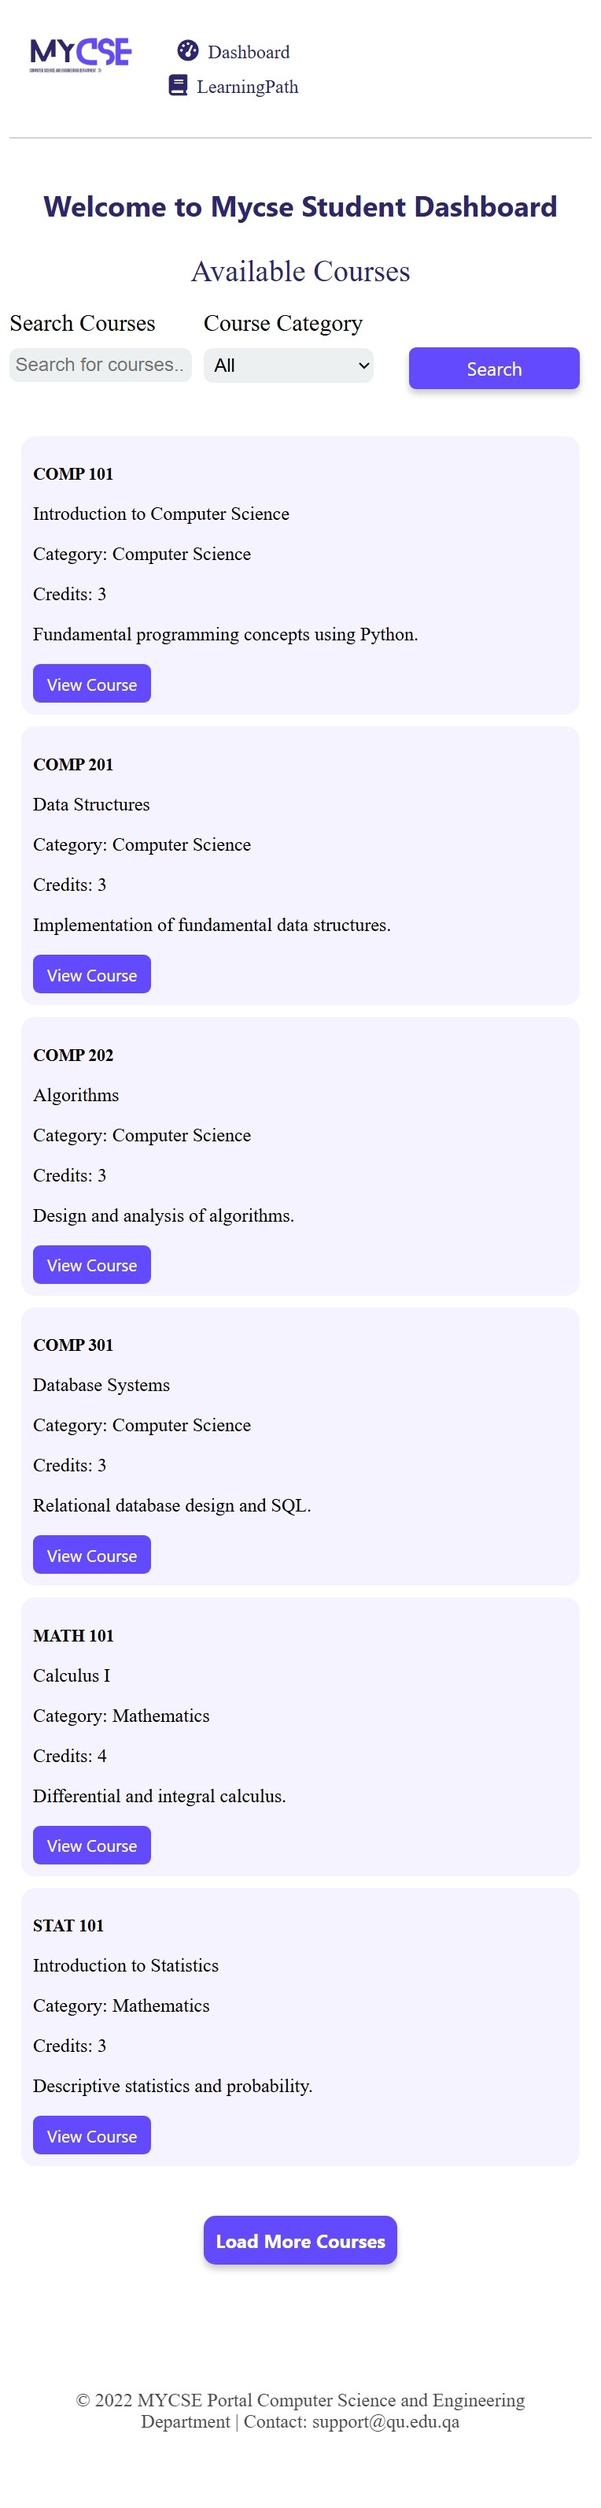
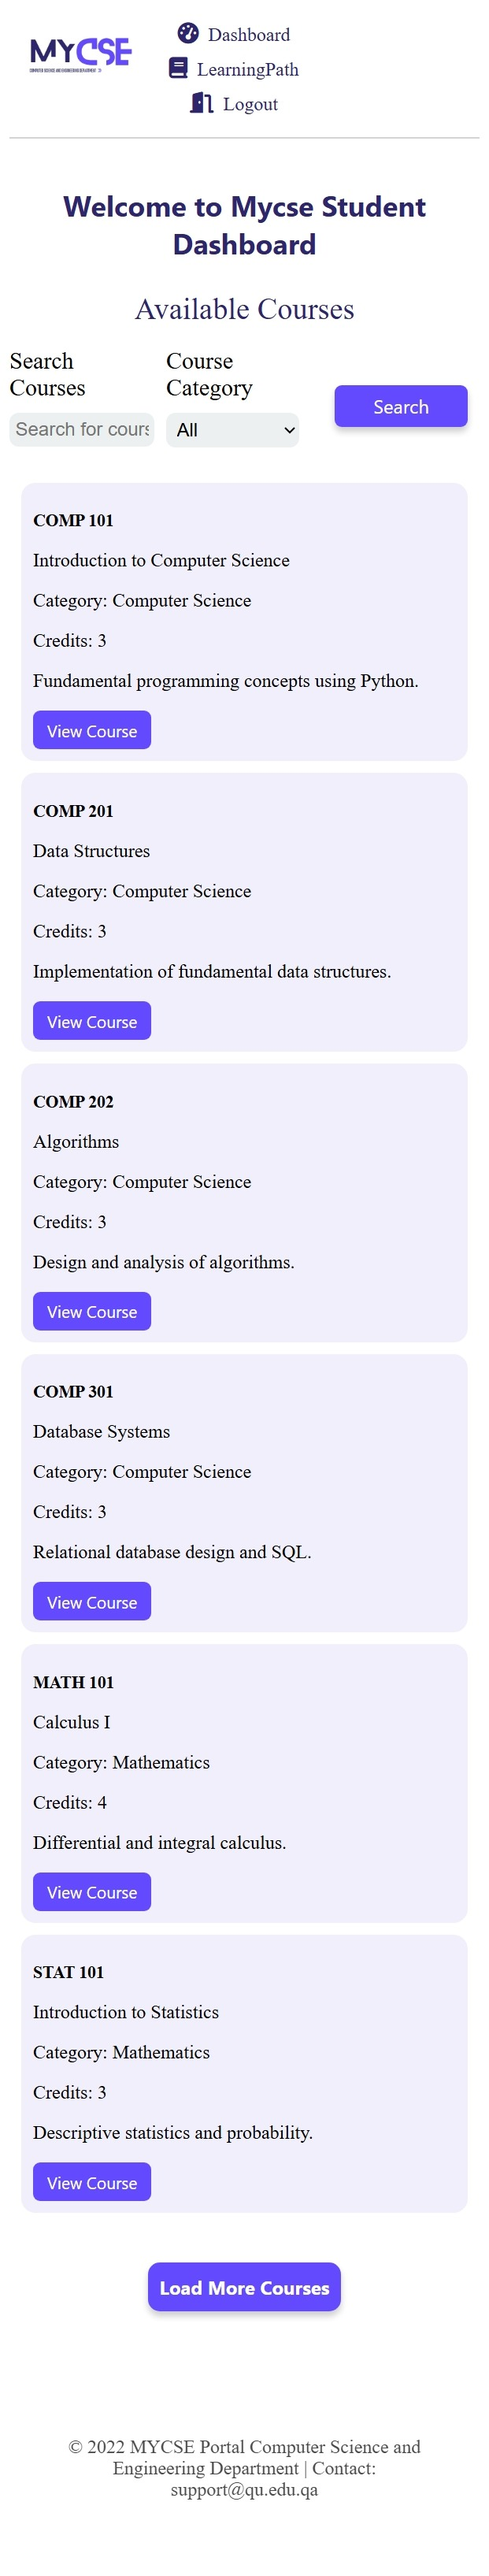
update amin.css

diff --git a/Web Project2/styles/style.css b/Web Project2/styles/style.css
@@ -2,7 +2,7 @@
     /* color palette using custom properties (cascading variables) */
     --scarlet-400: #E8E8E8;
     --color-primary: #634AFF; 
-    --color-background: #FDFFFC; 
+    --color-background: #ffffff; 
     --color-secondary: #2E266D; 
 }
 
@@ -176,7 +176,7 @@ button{
     margin-top: 20px;
 }
 .course-card{
-    background-color: #F5F3FF;
+    background-color: #9889e123;
     border-radius: 12px;
     padding: 10px;
   
@@ -234,6 +234,7 @@ footer {
 }
 
 /* Responsive Design for small screens (mobile view)*/
+/* Responsive Design for small screens (mobile view)*/
 @media screen and (max-width: 768px) { 
     .coursesList {
         display: grid;
@@ -261,87 +262,35 @@ footer {
     }
 }
 
+/* Responsive Design for small screens (mobile view)*/
+@media screen and (max-width: 768px) { 
+    .coursesList {
+        display: grid;
+        grid-template-columns: 1fr;
+        gap: 10px;
+        padding: 10px;
+    }
+
+    header nav {
+        display: flex;
+        flex-direction: column;
+        align-items: center;
+    }
+    header nav a {
+        flex-direction: column;
+        align-items: stretch; 
+    }
+
+    .search-bar,.search-category, .search-Button{
+        width: 100%;
+    }
+    
+    .sidebar h1, .sidebar p {
+        text-align: center;
+    }
+}
+
+
+
    
-
-/* card styles */
-
-.card-container {
-    display: flex;
-    flex-wrap: wrap;
-    gap: 20px;
-    margin-bottom: 40px;
-}
-
-.course-card {
-    background-color: var(--color-background); /* light grey background */
-    border-radius: 20px;
-    padding: 20px;
-    width: 300px;
-    box-shadow: 0 4px 10px rgba(0,0,0,0.4);
-    transition: transform 0.2s ease;
-}
-
-.course-card:hover {
-    transform: translateY(-5px);
-}
-
-.course-card h3 {
-    margin: 0 0 10px;
-    font-size: 1.1rem;
-    color: var(--color-secondary);
-}
-
-.course-card p {
-    margin-bottom: 16px;
-    color: #333;
-    font-family:'Segoe UI', Tahoma, Geneva, Verdana, sans-serif;
-}
-
-.card-actions {
-    display: flex;
-    justify-content: space-between;
-    gap: 10px;
-}
-
-.card-actions button {
-    flex: 1;
-    background-color: var(--color-primary);
-    color: white;
-    border: none;
-    border-radius: 8px;
-    padding: 8px;
-    font-size: 14px;
-    font-weight: bold;
-    cursor: pointer;
-    transition: background-color 0.3s ease;
-}
-
-.card-actions button:hover {
-    background-color: #4a44d4;
-}
-
-.card-actions .btn-cancel {
-    background-color:var(--color-primary);
-}
-
-.card-actions .btn-cancel:hover {
-    background-color: var(--color-secondary);
-}
-
-/* */
-.create-course-btn {
-    background-color: var(--color-primary);
-    color: white;
-    padding: 10px 20px;
-    font-size: 16px;
-    font-weight: bold;
-    border: none;
-    border-radius: 12px;
-    cursor: pointer;
-    margin-bottom: 30px;
-}
-
-.create-course-btn:hover {
-    background-color: #4a44d4;
-}
 

diff --git a/Web Project2/styles/admin.css b/Web Project2/styles/admin.css
@@ -1,0 +1,82 @@
+/* card styles */
+
+.card-container {
+    display: flex;
+    flex-wrap: wrap;
+    gap: 20px;
+    margin-bottom: 40px;
+}
+
+.course-card {
+    background-color: #9889e123; /* light grey background */
+    border-radius: 20px;
+    padding: 20px;
+    width: 300px;
+    box-shadow: 0 4px 10px rgba(0,0,0,0.4);
+    transition: transform 0.2s ease;
+}
+
+.course-card:hover {
+    transform: translateY(-5px);
+}
+
+.course-card h3 {
+    margin: 0 0 10px;
+    font-size: 1.1rem;
+    color: var(--color-secondary);
+}
+
+.course-card p {
+    margin-bottom: 16px;
+    color: #333;
+    font-family:'Segoe UI', Tahoma, Geneva, Verdana, sans-serif;
+}
+
+.card-actions {
+    display: flex;
+    justify-content: space-between;
+    gap: 10px;
+}
+
+.card-actions button {
+    flex: 1;
+    background-color: var(--color-primary);
+    color: white;
+    border: none;
+    border-radius: 8px;
+    padding: 8px;
+    font-size: 14px;
+    font-weight: bold;
+    cursor: pointer;
+    transition: background-color 0.3s ease;
+}
+
+.card-actions button:hover {
+    background-color: #4a44d4;
+}
+
+.card-actions .btn-cancel {
+    background-color:var(--color-primary);
+}
+
+.card-actions .btn-cancel:hover {
+    background-color: var(--color-secondary);
+}
+
+/* */
+.create-course-btn {
+    background-color: var(--color-primary);
+    color: white;
+    padding: 10px 20px;
+    font-size: 16px;
+    font-weight: bold;
+    border: none;
+    border-radius: 12px;
+    cursor: pointer;
+    margin-bottom: 30px;
+}
+
+.create-course-btn:hover {
+    background-color: #4a44d4;
+}
+

diff --git a/Web Project2/adminDashboard.html b/Web Project2/adminDashboard.html
@@ -5,6 +5,7 @@
     <meta name="viewport" content="width=device-width, initial-scale=1.0">
     <title>Admin Dashboard</title>
     <link rel="stylesheet" href="styles/style.css">
+    <link rel="stylesheet" href="styles/admin.css">
     <link rel="stylesheet" href="https://cdnjs.cloudflare.com/ajax/libs/font-awesome/6.5.1/css/all.min.css">
 </head>
 
